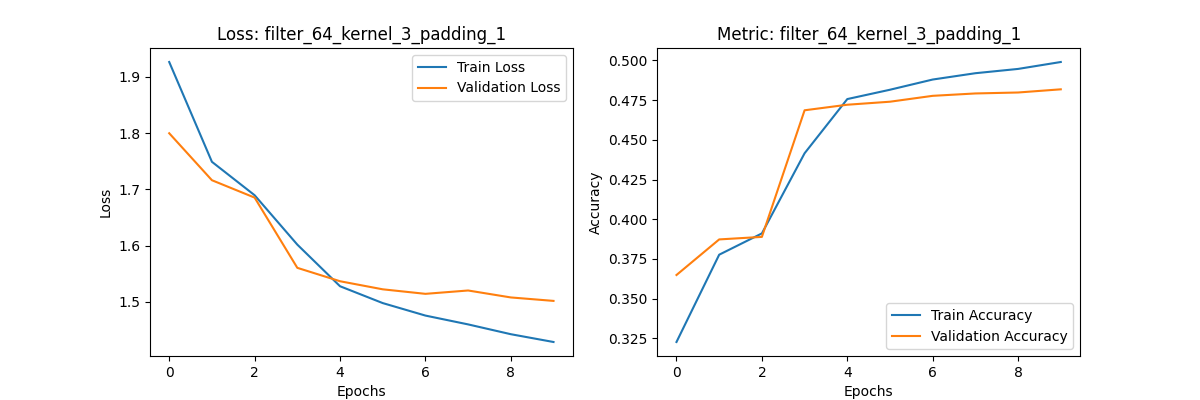
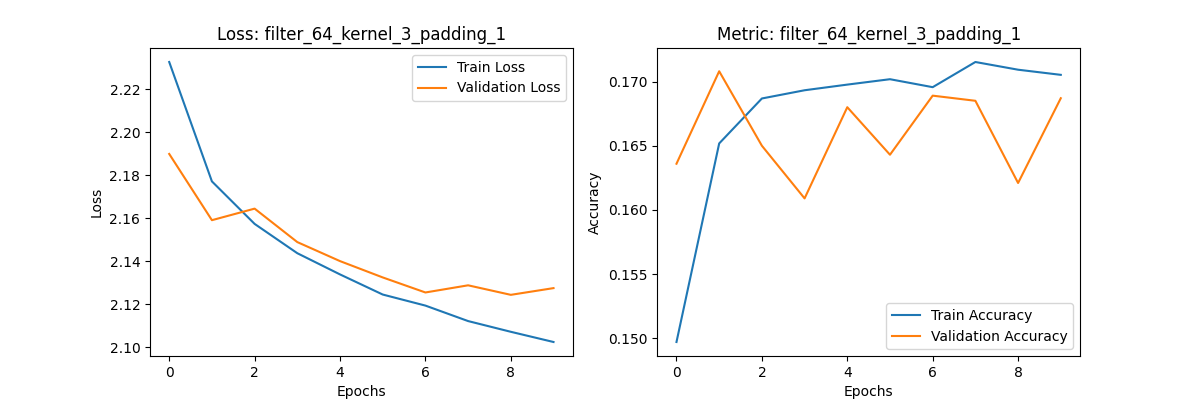
Computed models with dropout

diff --git a/HW7/torch_cnn.py b/HW7/torch_cnn.py
@@ -17,9 +17,9 @@ SEED = 42
 
 
 # TODO: Set your best configuration
-best_filter_size = 16
-best_kernel_size = 4
-best_padding = 0
+best_filter_size = 64
+best_kernel_size = 3
+best_padding = 1
 
 results = []
 
@@ -27,9 +27,9 @@ def main():
     print(f"Using device: {device}")
 
     # TODO: Complete make_cnn_classification_model and get_flat_size, choose hyperparameters here
-    filter_sizes = [4, 16, 32, 64]
-    kernel_sizes = [1, 3, 5]
-    paddings = [0, 1]
+    filter_sizes = [64, 4]
+    kernel_sizes = [3, 5]
+    paddings = [1]
 
     # Env setup
     plt.switch_backend("TkAgg")
@@ -77,14 +77,14 @@ def main():
                     padding,
                 )
 
-    train_and_plot(
-        train_loader,
-        val_loader,
-        input_shape,
-        best_filter_size,
-        best_kernel_size,
-        best_padding,
-    )
+    # train_and_plot(
+    #     train_loader,
+    #     val_loader,
+    #     input_shape,
+    #     best_filter_size,
+    #     best_kernel_size,
+    #     best_padding,
+    # )
 
     df_results = pd.DataFrame(results)
     df_results = df_results.sort_values("Val Accuracy (Final)", ascending=False)
@@ -193,11 +193,16 @@ def make_cnn_classification_model(
         layers.append(torch.nn.ReLU())
         layers.append(torch.nn.MaxPool2d(kernel_size=2, stride=2))
 
+        layers.append(torch.nn.Dropout2d(p=.3))
+
         in_channels = out_channels
 
     conv_output_size = get_flat_size(input_shape, n_layers, filter_size, kernel_size, padding)
 
     layers.append(torch.nn.Flatten())
+
+    layers.append(torch.nn.Dropout(p=.3))
+
     layers.append(torch.nn.Linear(conv_output_size, n_classes))
     layers.append(torch.nn.ReLU())
 
@@ -277,7 +282,7 @@ def plot_history(
 
     if show:
         plt.show()
-    plt.savefig(f"graphs/{name}.png")
+    plt.savefig(f"graphs/{name}_dropout.png")
     plt.close()
 
 
